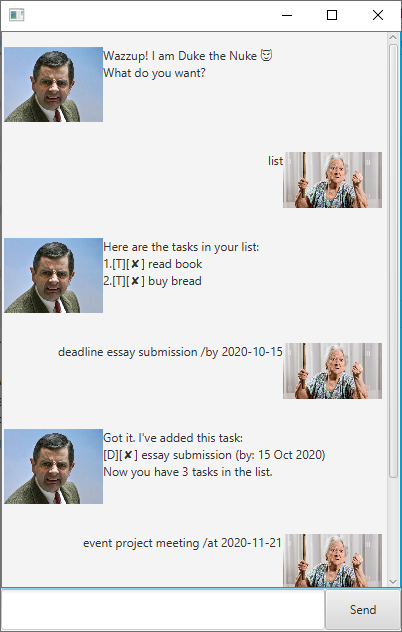
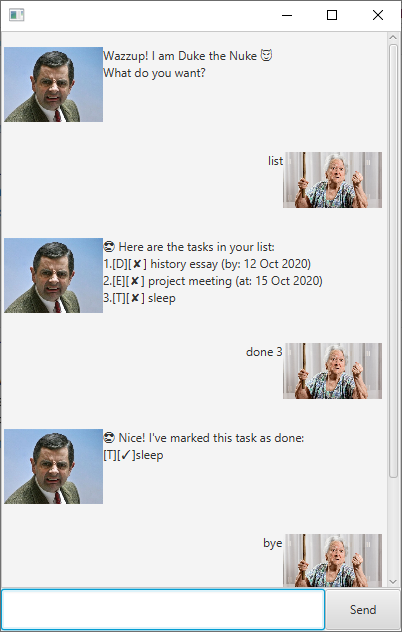
Update javadoc and code refactoring

diff --git a/src/main/java/Parser.java b/src/main/java/Parser.java
@@ -1,3 +1,4 @@
+import java.time.DateTimeException;
 import java.time.LocalDate;
 import java.time.format.DateTimeFormatter;
 
@@ -21,7 +22,7 @@ public class Parser {
             storage.saveTasks(taskList.getTasks());
             return ui.addTask() + todo.toString() + "\n" + ui.showNumberOfTasks(taskList.getTasks());
         } catch (DukeException e) {
-            return "Todo cannot be empty";
+            return e.getMessage();
         }
     }
 
@@ -31,18 +32,23 @@ public class Parser {
      * @param taskList the taskList containing current tasks.
      * @param storage the storage to store tasks in the hard disk
      * @param ui to interact with the user.
-     * @param formatter the datetimeformatter to format the date.
+     * @param formatter to format the date.
      * @return a String containing the message related to a deadline task.
-     * @throws DukeException to indicate that it cannot save tasks.
      */
-    public static String parseDeadline(String last, TaskList taskList, Storage storage, Ui ui, DateTimeFormatter formatter) throws DukeException {
-        String job = last.split("/by")[0].trim();
-        String time = last.split("/by")[1].trim();
-        LocalDate date = LocalDate.parse(time);
-        Deadline work = new Deadline(job + " (by: " + formatter.format(date) + ")", false, date);
-        taskList.addTask(work);
-        storage.saveTasks(taskList.getTasks());
-        return ui.addTask() + work.toString() + "\n" + ui.showNumberOfTasks(taskList.getTasks());
+    public static String parseDeadline(String last, TaskList taskList, Storage storage, Ui ui, DateTimeFormatter formatter) {
+        try {
+            String job = last.split("/by")[0].trim();
+            String time = last.split("/by")[1].trim();
+            LocalDate date = LocalDate.parse(time);
+            Deadline work = new Deadline(job + " (by: " + formatter.format(date) + ")", false, date);
+            taskList.addTask(work);
+            storage.saveTasks(taskList.getTasks());
+            return ui.addTask() + work.toString() + "\n" + ui.showNumberOfTasks(taskList.getTasks());
+        } catch (DukeException e) {
+            return e.getMessage();
+        } catch (ArrayIndexOutOfBoundsException | DateTimeException e) {
+            return ui.printIncorrectTaskOrDateMessage();
+        }
     }
 
     /**
@@ -51,18 +57,23 @@ public class Parser {
      * @param taskList the taskList containing current tasks.
      * @param storage the storage to store tasks in the hard disk
      * @param ui to interact with the user.
-     * @param formatter the datetimeformatter to format the date.
+     * @param formatter to format the date.
      * @return a String containing the message related to an event task.
-     * @throws DukeException to indicate that it cannot save tasks.
      */
-    public static String parseEvent(String last, TaskList taskList, Storage storage, Ui ui, DateTimeFormatter formatter) throws DukeException {
-        String job = last.split("/at")[0].trim();
-        String time = last.split("/at")[1].trim();
-        LocalDate date = LocalDate.parse(time);
-        Event work = new Event(job + " (at: " + formatter.format(date) + ")", false, date);
-        taskList.addTask(work);
-        storage.saveTasks(taskList.getTasks());
-        return ui.addTask() + work.toString() + "\n" + ui.showNumberOfTasks(taskList.getTasks());
+    public static String parseEvent(String last, TaskList taskList, Storage storage, Ui ui, DateTimeFormatter formatter) {
+        try {
+            String job = last.split("/at")[0].trim();
+            String time = last.split("/at")[1].trim();
+            LocalDate date = LocalDate.parse(time);
+            Event work = new Event(job + " (at: " + formatter.format(date) + ")", false, date);
+            taskList.addTask(work);
+            storage.saveTasks(taskList.getTasks());
+            return ui.addTask() + work.toString() + "\n" + ui.showNumberOfTasks(taskList.getTasks());
+        } catch (DukeException e) {
+            return e.getMessage();
+        } catch (ArrayIndexOutOfBoundsException | DateTimeException e) {
+            return ui.printIncorrectTaskOrDateMessage();
+        }
     }
 
     /**
@@ -72,15 +83,20 @@ public class Parser {
      * @param storage the storage to store tasks in the hard disk
      * @param ui to interact with the user.
      * @return a String containing the message related to the task that is done.
-     * @throws DukeException to indicate that it cannot save tasks.
      */
-    public static String parseDone(String last, TaskList taskList, Storage storage, Ui ui) throws DukeException {
-        int id = Integer.parseInt(last) - 1;
-        String changed = taskList.getTask(id).getDescription();
-        String type = taskList.getTask(id).getType();
-        taskList.getTask(id).markAsDone();
-        storage.saveTasks(taskList.getTasks());
-        return ui.doneTask() + "[" + type + "][" + "\u2713" + "]" + changed + "\n";
+    public static String parseDone(String last, TaskList taskList, Storage storage, Ui ui) {
+        try {
+            int id = Integer.parseInt(last) - 1;
+            String changed = taskList.getTask(id).getDescription();
+            String type = taskList.getTask(id).getType();
+            taskList.getTask(id).markAsDone();
+            storage.saveTasks(taskList.getTasks());
+            return ui.doneTask() + "[" + type + "][" + "\u2713" + "]" + changed + "\n";
+        } catch (DukeException e) {
+            return e.getMessage();
+        } catch (IndexOutOfBoundsException | NumberFormatException e) {
+            return ui.printIncorrectIndexMessage();
+        }
     }
 
     /**
@@ -90,17 +106,23 @@ public class Parser {
      * @param storage the storage to store tasks in the hard disk
      * @param ui to interact with the user.
      * @return a String containing the message related to the task that is deleted.
-     * @throws DukeException to indicate that it cannot save tasks.
      */
-    public static String parseDelete(String last, TaskList taskList, Storage storage, Ui ui) throws DukeException {
-        int index = Integer.parseInt(last) - 1;
-        String deleted = taskList.getTask(index).getDescription();
-        String deletedType = taskList.getTask(index).getType();
-        String status = taskList.getTask(index).getStatusIcon();
-        Task removedTask = taskList.removeTask(index);
-        storage.saveTasks(taskList.getTasks());
+    public static String parseDelete(String last, TaskList taskList, Storage storage, Ui ui) {
+        try {
+            int index = Integer.parseInt(last) - 1;
+            String deleted = taskList.getTask(index).getDescription();
+            String deletedType = taskList.getTask(index).getType();
+            String status = taskList.getTask(index).getStatusIcon();
+            taskList.removeTask(index);
+            storage.saveTasks(taskList.getTasks());
 
-        return ui.removeTask() + "[" + deletedType + "][" + status + "] "
-                + deleted + "\n" + ui.showNumberOfTasks(taskList.getTasks());
+            return ui.removeTask() + "[" + deletedType + "][" + status + "] "
+                    + deleted + "\n" + ui.showNumberOfTasks(taskList.getTasks());
+
+        } catch (DukeException e) {
+            return e.getMessage();
+        } catch (IndexOutOfBoundsException | NumberFormatException e) {
+            return ui.printIncorrectIndexMessage();
+        }
     }
 }

diff --git a/src/main/java/Ui.java b/src/main/java/Ui.java
@@ -18,18 +18,10 @@ public class Ui {
 
     /**
      * Prints out the given message.
-     * @param message
+     * @param message message to be printed.
      */
     public void printMessage(String message) {
         System.out.println(message);
-    }
-
-    /**
-     * Reads the next line from the scanner.
-     * @return the next line
-     */
-    public String readInput() {
-        return sc.nextLine();
     }
 
     /**
@@ -40,59 +32,53 @@ public class Ui {
     }
 
     /**
-     * Prints the welcome message for the user.
-     */
-    public String welcome() {
-        return "Wazzup! I am Duke the Nuke \uD83D\uDE08\n"
-                + "What do you want?\n";
-    }
-
-    /**
-     * Prints the exit message for the user.
+     * @return the exit message for the user.
      */
     public String exit() {
 
-        return "Sayonara!\n";
+        return "Sayonara! \uD83D\uDE1C \uD83D\uDE1C \uD83D\uDE1C\n";
     }
 
     /**
-     * Prints the "invalid input" error message.
+     * @return the "invalid input" error message.
      */
     public String invalidInput() {
 
-        return "☹ OOPS!!! I'm sorry, but I don't know what that means :-(\n";
+        return "I don't know what that means. Please try again \uD83D\uDE11\n";
     }
 
     /**
-     * Prints the addTask message.
+     * @return the addTask message.
      */
     public String addTask() {
 
-        return "Got it. I've added this task:\n";
+        return "\uD83D\uDE0E Got it. I've added this task:\n";
     }
 
     /**
-     * Prints the removeTask message.
+     * @return the removeTask message.
      */
     public String removeTask() {
 
-        return "Noted. I've removed this task:\n";
+        return "\uD83D\uDE0E Noted. I've removed this task:\n";
     }
 
     /**
-     * Prints the doneTask message.
+     * @return the doneTask message.
      */
     public String doneTask() {
 
-        return "Nice! I've marked this task as done:\n";
+        return "\uD83D\uDE0E Nice! I've marked this task as done:\n";
     }
 
     /**
-     * Prints the showList message with the list of tasks.
+     * Lists out the tasks.
+     * @param taskList list containing the tasks.
+     * @return the showList message with the list of tasks.
      */
     public String showList(ArrayList<Task> taskList) {
 
-        String header = "Here are the tasks in your list:\n";
+        String header = "\uD83D\uDE0E Here are the tasks in your list:\n";
         Iterator<Task> iter = taskList.iterator();
         int index = 1;
         String message = "";
@@ -107,19 +93,22 @@ public class Ui {
     }
 
     /**
-     * Prints the statement with the number of tasks.
+     * Shows total number of tasks.
      * @param tasks the list containing the tasks.
+     * @return the statement with the number of tasks.
      */
     public String showNumberOfTasks(ArrayList<Task> tasks) {
         return "Now you have " + tasks.size() + " tasks in the list.\n";
     }
 
     /**
-     * Prints the matchingTasks message with the matching tasks.
+     * Finds matching tasks.
+     * @param findTasks the list containing the tasks.
+     * @return the matchingTasks message with the matching tasks.
      */
     public String printMatchingTasks(ArrayList<Task> findTasks) {
 
-        String header = "Here are the matching tasks in your list:\n";
+        String header = "\uD83D\uDE0E Here are the matching tasks in your list:\n";
         String found = "";
         int index = 1;
         for (Task tsk : findTasks) {
@@ -131,6 +120,34 @@ public class Ui {
         }
         return header + found;
 
+    }
+
+    /**
+     * Handles the possible matching tasks.
+     * @param keyWord the string to match.
+     * @param originalList original list of tasks.
+     * @param newList new list for the tasks to be added.
+     */
+    public void handleMatchingTasks(String keyWord, ArrayList<Task> originalList, ArrayList<Task> newList) {
+        for (Task task : originalList) {
+            if (task.getDescription().contains(keyWord) && !newList.contains(task)) {
+                newList.add(task);
+            }
+        }
+    }
+
+    /**
+     * @return the "incorrect index" message.
+     */
+    public String printIncorrectIndexMessage() {
+        return "Please enter the correct index of the task \uD83D\uDE11\n";
+    }
+
+    /**
+     * @return the "incorrect task and date" message.
+     */
+    public String printIncorrectTaskOrDateMessage() {
+        return "Please enter the correct format for the task and date \uD83D\uDE11\n";
     }
 }
 

diff --git a/src/main/java/Duke.java b/src/main/java/Duke.java
@@ -3,7 +3,7 @@ import java.time.format.DateTimeFormatter;
 import java.util.ArrayList;
 
 /**
- * The class with the chat bot dealing with the user's inputs.
+ * The class with the chat bot that deals with the user's inputs.
  */
 public class Duke {
 
@@ -34,7 +34,12 @@ public class Duke {
         }
     }
 
-    public String getResponse(String input) throws DukeException {
+    /**
+     * Gets the response from Duke with the given input.
+     * @param input String from user.
+     * @return A String containing duke's response.
+     */
+    public String getResponse(String input) {
 
         DateTimeFormatter formatter = DateTimeFormatter.ofPattern("d MMM yyyy");
         String trimmed = input.trim();
@@ -60,11 +65,10 @@ public class Duke {
 
         case "find":   // finds the task even if the keyword matches the task partially
 
+            String[] keyWords = last.split(" ");
             ArrayList<Task> findTasks = new ArrayList<>();
-            for (Task task : taskList.getTasks()) {
-                if (task.getDescription().contains(last)) {
-                    findTasks.add(task);
-                }
+            for (String keyWord : keyWords) {
+                ui.handleMatchingTasks(keyWord, taskList.getTasks(), findTasks);
             }
             return ui.printMatchingTasks(findTasks);
 

diff --git a/src/main/java/Todo.java b/src/main/java/Todo.java
@@ -24,7 +24,7 @@ public class Todo extends Task {
      */
     public static Todo makeToDo(String desc, boolean isDone) throws DukeException {
         if (desc.length() == 0) {
-            throw new DukeException("☹ OOPS!!! The description of a todo cannot be empty.");
+            throw new DukeException("The description of a todo cannot be empty \uD83D\uDE11");
         }
         return new Todo(desc, isDone);
     }

diff --git a/src/main/java/MainWindow.java b/src/main/java/MainWindow.java
@@ -40,7 +40,7 @@ public class MainWindow extends AnchorPane {
      * the dialog container. Clears the user input after processing.
      */
     @FXML
-    private void handleUserInput() throws DukeException {
+    private void handleUserInput() {
         String input = userInput.getText();
         String response = duke.getResponse(input);
         dialogContainer.getChildren().addAll(

diff --git a/src/main/java/Main.java b/src/main/java/Main.java
@@ -11,7 +11,7 @@ import javafx.stage.Stage;
  */
 public class Main extends Application {
 
-    private Duke duke = new Duke();
+    private final Duke duke = new Duke();
 
     @Override
     public void start(Stage stage) {
